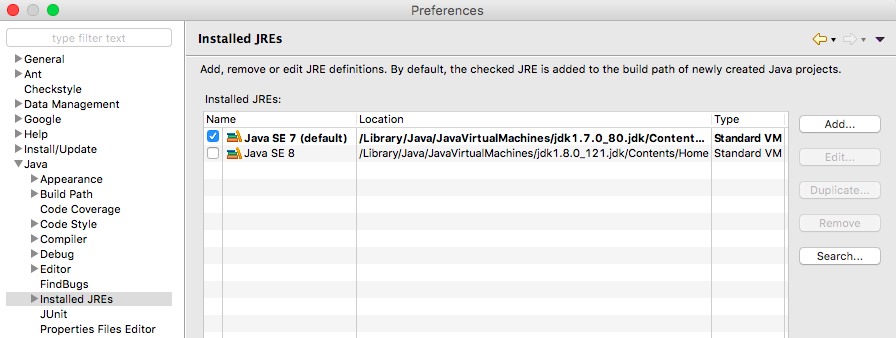
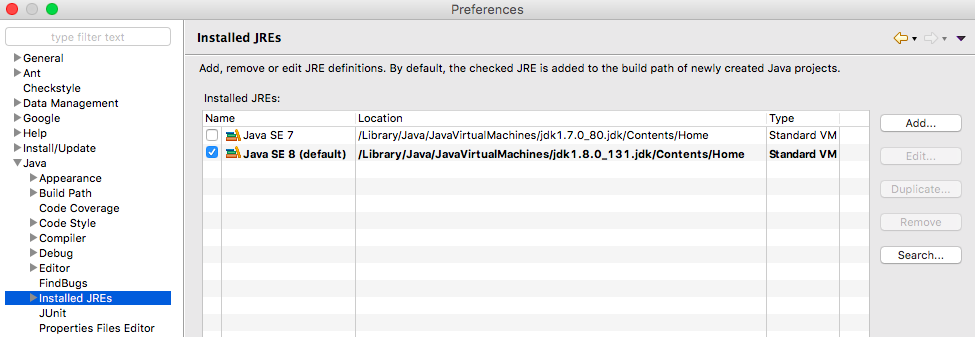
[#7609] Upgrade to Java 8 (#7637)

diff --git a/src/test/resources/pages/newlyJoinedInstructorThirdFeedbackSessionResultsPage.html b/src/test/resources/pages/newlyJoinedInstructorThirdFeedbackSessionResultsPage.html
@@ -12876,6 +12876,25 @@
                       <td>
                       </td>
                       <td>
+                        Team 3
+                      </td>
+                      <td>
+                        1 , 2
+                      </td>
+                      <td>
+                        -
+                      </td>
+                      <td>
+                        1.5
+                      </td>
+                      <td>
+                        1.5
+                      </td>
+                    </tr>
+                    <tr>
+                      <td>
+                      </td>
+                      <td>
                         Team 1
                       </td>
                       <td>
@@ -12908,25 +12927,6 @@
                       </td>
                       <td>
                         2
-                      </td>
-                    </tr>
-                    <tr>
-                      <td>
-                      </td>
-                      <td>
-                        Team 3
-                      </td>
-                      <td>
-                        1 , 2
-                      </td>
-                      <td>
-                        -
-                      </td>
-                      <td>
-                        1.5
-                      </td>
-                      <td>
-                        1.5
                       </td>
                     </tr>
                   </tbody>
@@ -13679,13 +13679,13 @@
                   <tbody>
                     <tr>
                       <td>
-                        Teamwork and communication
+                        Quality of progress reports
                       </td>
                       <td>
-                        3 , 4
+                        1 , 3
                       </td>
                       <td>
-                        3.5
+                        2
                       </td>
                     </tr>
                     <tr>
@@ -13701,17 +13701,6 @@
                     </tr>
                     <tr>
                       <td>
-                        Quality of progress reports
-                      </td>
-                      <td>
-                        1 , 3
-                      </td>
-                      <td>
-                        2
-                      </td>
-                    </tr>
-                    <tr>
-                      <td>
                         Quality of work
                       </td>
                       <td>
@@ -13719,6 +13708,17 @@
                       </td>
                       <td>
                         2.5
+                      </td>
+                    </tr>
+                    <tr>
+                      <td>
+                        Teamwork and communication
+                      </td>
+                      <td>
+                        3 , 4
+                      </td>
+                      <td>
+                        3.5
                       </td>
                     </tr>
                   </tbody>

diff --git a/src/test/resources/pages/adminAccountDetails.html b/src/test/resources/pages/adminAccountDetails.html
@@ -170,6 +170,18 @@
       <tbody>
         <tr>
           <td>
+            [AAMgtUiT.CS1101] Programming Methodology
+          </td>
+          <td>
+            <a class="btn btn-danger btn-sm" href="/admin/adminAccountDelete?instructorid=AAMgtUiT.instr2&courseid=AAMgtUiT.CS1101&token=${sessionToken}" id="instructor_AAMgtUiT.CS1101">
+              <span class="glyphicon glyphicon-trash">
+              </span>
+              Remove From Course
+            </a>
+          </td>
+        </tr>
+        <tr>
+          <td>
             [AAMgtUiT.CS2103] Software Engineering
           </td>
           <td>
@@ -186,18 +198,6 @@
           </td>
           <td>
             <a class="btn btn-danger btn-sm" href="/admin/adminAccountDelete?instructorid=AAMgtUiT.instr2&courseid=AAMgtUiT.CS2104&token=${sessionToken}" id="instructor_AAMgtUiT.CS2104">
-              <span class="glyphicon glyphicon-trash">
-              </span>
-              Remove From Course
-            </a>
-          </td>
-        </tr>
-        <tr>
-          <td>
-            [AAMgtUiT.CS1101] Programming Methodology
-          </td>
-          <td>
-            <a class="btn btn-danger btn-sm" href="/admin/adminAccountDelete?instructorid=AAMgtUiT.instr2&courseid=AAMgtUiT.CS1101&token=${sessionToken}" id="instructor_AAMgtUiT.CS1101">
               <span class="glyphicon glyphicon-trash">
               </span>
               Remove From Course

diff --git a/src/test/resources/pages/instructorFeedbackResultsPageRankRQGView.html b/src/test/resources/pages/instructorFeedbackResultsPageRankRQGView.html
@@ -515,17 +515,6 @@
                               <tbody>
                                 <tr>
                                   <td>
-                                    ;
-                                  </td>
-                                  <td>
-                                    1
-                                  </td>
-                                  <td>
-                                    1
-                                  </td>
-                                </tr>
-                                <tr>
-                                  <td>
                                     Organisation
                                   </td>
                                   <td>
@@ -533,6 +522,17 @@
                                   </td>
                                   <td>
                                     2
+                                  </td>
+                                </tr>
+                                <tr>
+                                  <td>
+                                    ;
+                                  </td>
+                                  <td>
+                                    1
+                                  </td>
+                                  <td>
+                                    1
                                   </td>
                                 </tr>
                               </tbody>

diff --git a/src/test/resources/pages/adminAccountDetailsRemoveStudent.html b/src/test/resources/pages/adminAccountDetailsRemoveStudent.html
@@ -84,10 +84,10 @@
       <tbody>
         <tr>
           <td>
-            [AAMgtUiT.CS2103] Software Engineering
+            [AAMgtUiT.CS1101] Programming Methodology
           </td>
           <td>
-            <a class="btn btn-danger btn-sm" href="/admin/adminAccountDelete?instructorid=AAMgtUiT.instr2&courseid=AAMgtUiT.CS2103&token=${sessionToken}" id="instructor_AAMgtUiT.CS2103">
+            <a class="btn btn-danger btn-sm" href="/admin/adminAccountDelete?instructorid=AAMgtUiT.instr2&courseid=AAMgtUiT.CS1101&token=${sessionToken}" id="instructor_AAMgtUiT.CS1101">
               <span class="glyphicon glyphicon-trash">
               </span>
               Remove From Course
@@ -96,10 +96,10 @@
         </tr>
         <tr>
           <td>
-            [AAMgtUiT.CS1101] Programming Methodology
+            [AAMgtUiT.CS2103] Software Engineering
           </td>
           <td>
-            <a class="btn btn-danger btn-sm" href="/admin/adminAccountDelete?instructorid=AAMgtUiT.instr2&courseid=AAMgtUiT.CS1101&token=${sessionToken}" id="instructor_AAMgtUiT.CS1101">
+            <a class="btn btn-danger btn-sm" href="/admin/adminAccountDelete?instructorid=AAMgtUiT.instr2&courseid=AAMgtUiT.CS2103&token=${sessionToken}" id="instructor_AAMgtUiT.CS2103">
               <span class="glyphicon glyphicon-trash">
               </span>
               Remove From Course

diff --git a/src/test/java/teammates/test/cases/logic/FeedbackSessionsLogicTest.java b/src/test/java/teammates/test/cases/logic/FeedbackSessionsLogicTest.java
@@ -1459,8 +1459,8 @@ public class FeedbackSessionsLogicTest extends BaseLogicTest {
                 "",
                 "Summary Statistics,",
                 "Team, Recipient, Average, Minimum, Maximum",
-                "\"Instructors\",\"Instructor1 Course1\",4.5,4.5,4.5",
                 "\"Instructors\",\"Instructor2 Course1\",1,1,1",
+                "\"Instructors\",\"Instructor1 Course1\",4.5,4.5,4.5",
                 "",
                 "Team,Giver's Full Name,Giver's Last Name,Giver's Email,Recipient's Team,Recipient's Full Name,Recipient's Last Name,Recipient's Email,Feedback",
                 "\"Instructors\",\"Instructor1 Course1\",\"Instructor1 Course1\",\"instructor1@course1.tmt\",\"Instructors\",\"Instructor1 Course1\",\"Instructor1 Course1\",\"instructor1@course1.tmt\",4.5",
@@ -1840,9 +1840,9 @@ public class FeedbackSessionsLogicTest extends BaseLogicTest {
                 "",
                 "Summary Statistics,",
                 "Team, Recipient, Self Rank, Average Rank, Average Rank Excluding Self, Ranks Received",
-                "\"Team 1.1</td></div>'\"\"\",\"student4 In Course1\",1,1.33,1,1,2,1",
                 "\"Team 1.1</td></div>'\"\"\",\"student2 In Course1\",1,2,3,3,1",
                 "\"Team 1.1</td></div>'\"\"\",\"student1 In Course1</td></div>'\"\"\",4,4,-,4",
+                "\"Team 1.1</td></div>'\"\"\",\"student4 In Course1\",1,1.33,1,1,2,1",
                 "\"Team 1.1</td></div>'\"\"\",\"student3 In Course1\",1,1.5,2,2,1",
                 "",
                 "",
@@ -1861,10 +1861,10 @@ public class FeedbackSessionsLogicTest extends BaseLogicTest {
                 "",
                 "Summary Statistics,",
                 "Option, Average Rank, Ranks Received",
-                "\"Teamwork and communication\",1.75,4,1,1,1",
-                "\"Time management\",2,3,2,1,2",
                 "\"Quality of progress reports\",2.5,2,3",
+                "\"Time management\",2,3,2,1,2",
                 "\"Quality of work\",2.4,1,4,3,3,1",
+                "\"Teamwork and communication\",1.75,4,1,1,1",
                 "",
                 "",
                 "Team,Giver's Full Name,Giver's Last Name,Giver's Email,Recipient's Team,Recipient's Full Name,Recipient's Last Name,Recipient's Email,Rank 1,Rank 2,Rank 3,Rank 4",

diff --git a/src/test/java/teammates/test/cases/action/StudentFeedbackSubmissionEditSaveActionTest.java b/src/test/java/teammates/test/cases/action/StudentFeedbackSubmissionEditSaveActionTest.java
@@ -1083,8 +1083,8 @@ public class StudentFeedbackSubmissionEditSaveActionTest extends BaseActionTest 
             String parentUri, boolean isError, String userId, String courseId, String fsname) {
         String pageDestination = parentUri;
         pageDestination = addParamToUrl(pageDestination, Const.ParamsNames.ERROR, Boolean.toString(isError));
-        pageDestination = addParamToUrl(pageDestination, Const.ParamsNames.USER_ID, userId);
         pageDestination = addParamToUrl(pageDestination, Const.ParamsNames.COURSE_ID, courseId);
+        pageDestination = addParamToUrl(pageDestination, Const.ParamsNames.USER_ID, userId);
         pageDestination = addParamToUrl(pageDestination, Const.ParamsNames.FEEDBACK_SESSION_NAME, fsname);
         return pageDestination;
     }
@@ -1095,8 +1095,8 @@ public class StudentFeedbackSubmissionEditSaveActionTest extends BaseActionTest 
         pageDestination = addParamToUrl(pageDestination, Const.ParamsNames.STUDENT_EMAIL, studentEmail);
         pageDestination = addParamToUrl(pageDestination, Const.ParamsNames.ERROR, Boolean.toString(isError));
         pageDestination = addParamToUrl(pageDestination, Const.ParamsNames.COURSE_ID, courseId);
-        pageDestination = addParamToUrl(pageDestination, Const.ParamsNames.FEEDBACK_SESSION_NAME, fsname);
         pageDestination = addParamToUrl(pageDestination, Const.ParamsNames.REGKEY, key);
+        pageDestination = addParamToUrl(pageDestination, Const.ParamsNames.FEEDBACK_SESSION_NAME, fsname);
         return pageDestination;
     }
 

diff --git a/src/test/java/teammates/test/cases/action/InstructorEditInstructorFeedbackSaveActionTest.java b/src/test/java/teammates/test/cases/action/InstructorEditInstructorFeedbackSaveActionTest.java
@@ -465,11 +465,11 @@ public class InstructorEditInstructorFeedbackSaveActionTest extends BaseActionTe
     protected String getPageResultDestination(
             String parentUri, boolean isError, String moderatedPerson, String userId, String courseId, String fsName) {
         String pageDestination = parentUri;
-        pageDestination = addParamToUrl(pageDestination, Const.ParamsNames.ERROR, Boolean.toString(isError));
         pageDestination = addParamToUrl(
                 pageDestination, Const.ParamsNames.FEEDBACK_SESSION_MODERATED_PERSON, moderatedPerson);
-        pageDestination = addParamToUrl(pageDestination, Const.ParamsNames.USER_ID, userId);
+        pageDestination = addParamToUrl(pageDestination, Const.ParamsNames.ERROR, Boolean.toString(isError));
         pageDestination = addParamToUrl(pageDestination, Const.ParamsNames.COURSE_ID, courseId);
+        pageDestination = addParamToUrl(pageDestination, Const.ParamsNames.USER_ID, userId);
         pageDestination = addParamToUrl(pageDestination, Const.ParamsNames.FEEDBACK_SESSION_NAME, fsName);
         return pageDestination;
     }

diff --git a/src/test/java/teammates/test/cases/action/InstructorEditStudentFeedbackSaveActionTest.java b/src/test/java/teammates/test/cases/action/InstructorEditStudentFeedbackSaveActionTest.java
@@ -647,11 +647,11 @@ public class InstructorEditStudentFeedbackSaveActionTest extends BaseActionTest 
     protected String getPageResultDestination(
             String parentUri, boolean isError, String moderatedPerson, String userId, String courseId, String fsname) {
         String pageDestination = parentUri;
-        pageDestination = addParamToUrl(pageDestination, Const.ParamsNames.ERROR, Boolean.toString(isError));
         pageDestination = addParamToUrl(
                 pageDestination, Const.ParamsNames.FEEDBACK_SESSION_MODERATED_PERSON, moderatedPerson);
-        pageDestination = addParamToUrl(pageDestination, Const.ParamsNames.USER_ID, userId);
+        pageDestination = addParamToUrl(pageDestination, Const.ParamsNames.ERROR, Boolean.toString(isError));
         pageDestination = addParamToUrl(pageDestination, Const.ParamsNames.COURSE_ID, courseId);
+        pageDestination = addParamToUrl(pageDestination, Const.ParamsNames.USER_ID, userId);
         pageDestination = addParamToUrl(pageDestination, Const.ParamsNames.FEEDBACK_SESSION_NAME, fsname);
         return pageDestination;
     }

diff --git a/src/test/java/teammates/test/cases/action/InstructorCourseStudentDetailsEditSaveActionTest.java b/src/test/java/teammates/test/cases/action/InstructorCourseStudentDetailsEditSaveActionTest.java
@@ -307,8 +307,8 @@ public class InstructorCourseStudentDetailsEditSaveActionTest extends BaseAction
     protected String getPageResultDestination(String parentUri, boolean isError, String userId, String courseId) {
         String pageDestination = parentUri;
         pageDestination = Url.addParamToUrl(pageDestination, Const.ParamsNames.ERROR, Boolean.toString(isError));
-        pageDestination = Url.addParamToUrl(pageDestination, Const.ParamsNames.USER_ID, userId);
         pageDestination = Url.addParamToUrl(pageDestination, Const.ParamsNames.COURSE_ID, courseId);
+        pageDestination = Url.addParamToUrl(pageDestination, Const.ParamsNames.USER_ID, userId);
         return pageDestination;
     }
 

diff --git a/src/test/java/teammates/test/cases/action/InstructorCourseInstructorDeleteActionTest.java b/src/test/java/teammates/test/cases/action/InstructorCourseInstructorDeleteActionTest.java
@@ -126,8 +126,8 @@ public class InstructorCourseInstructorDeleteActionTest extends BaseActionTest {
     protected String getPageResultDestination(String parentUri, boolean isError, String userId, String courseId) {
         String pageDestination = parentUri;
         pageDestination = addParamToUrl(pageDestination, Const.ParamsNames.ERROR, Boolean.toString(isError));
-        pageDestination = addParamToUrl(pageDestination, Const.ParamsNames.USER_ID, userId);
         pageDestination = addParamToUrl(pageDestination, Const.ParamsNames.COURSE_ID, courseId);
+        pageDestination = addParamToUrl(pageDestination, Const.ParamsNames.USER_ID, userId);
         return pageDestination;
     }
 

diff --git a/src/test/java/teammates/test/cases/action/InstructorCourseEditSaveActionTest.java b/src/test/java/teammates/test/cases/action/InstructorCourseEditSaveActionTest.java
@@ -167,8 +167,8 @@ public class InstructorCourseEditSaveActionTest extends BaseActionTest {
     protected String getPageResultDestination(String parentUri, boolean isError, String userId, String courseId) {
         String pageDestination = parentUri;
         pageDestination = addParamToUrl(pageDestination, Const.ParamsNames.ERROR, Boolean.toString(isError));
-        pageDestination = addParamToUrl(pageDestination, Const.ParamsNames.USER_ID, userId);
         pageDestination = addParamToUrl(pageDestination, Const.ParamsNames.COURSE_ID, courseId);
+        pageDestination = addParamToUrl(pageDestination, Const.ParamsNames.USER_ID, userId);
         return pageDestination;
     }
 

diff --git a/src/test/java/teammates/test/pageobjects/AppPage.java b/src/test/java/teammates/test/pageobjects/AppPage.java
@@ -173,8 +173,9 @@ public abstract class AppPage {
      * Fails if the page content does not match the content of the expected login page.
      */
     public static LoginPage createCorrectLoginPageType(Browser browser) {
-        return getNewPageInstance(browser, TestProperties.isDevServer() ? DevServerLoginPage.class
-                                                                        : GoogleLoginPage.class);
+        Class<? extends LoginPage> cls =
+                TestProperties.isDevServer() ? DevServerLoginPage.class : GoogleLoginPage.class;
+        return getNewPageInstance(browser, cls);
     }
 
     /**
